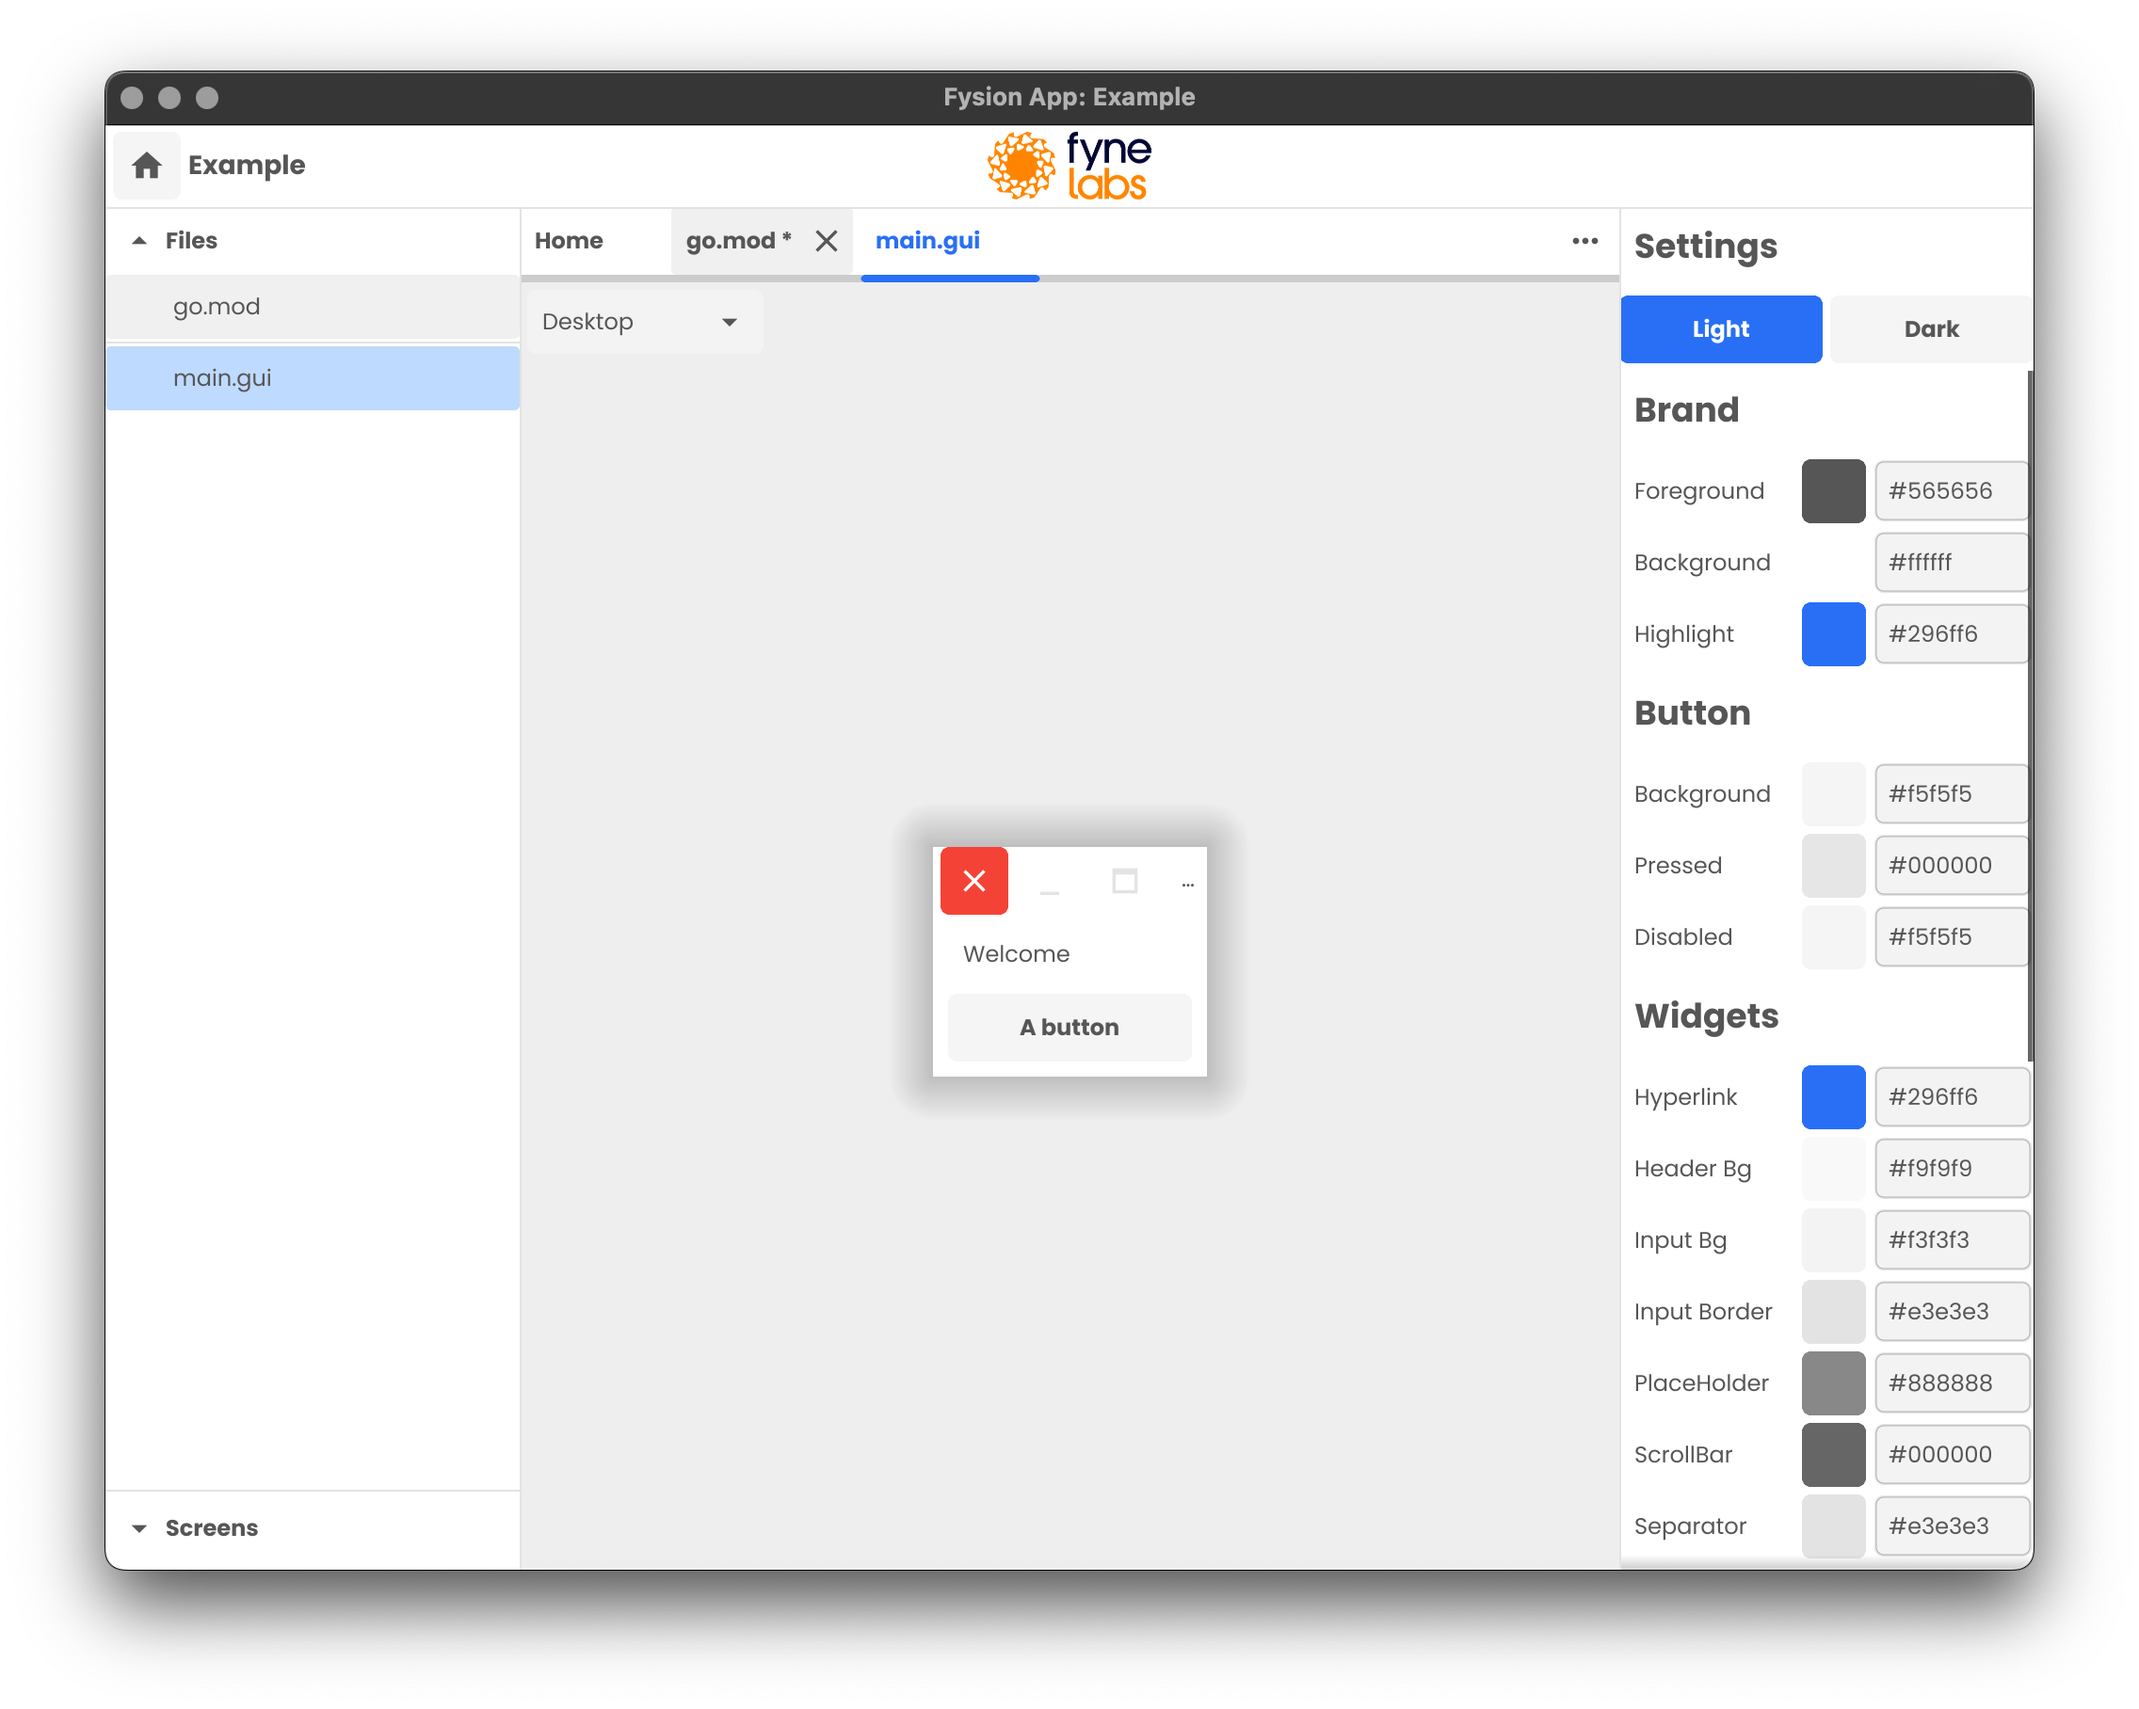
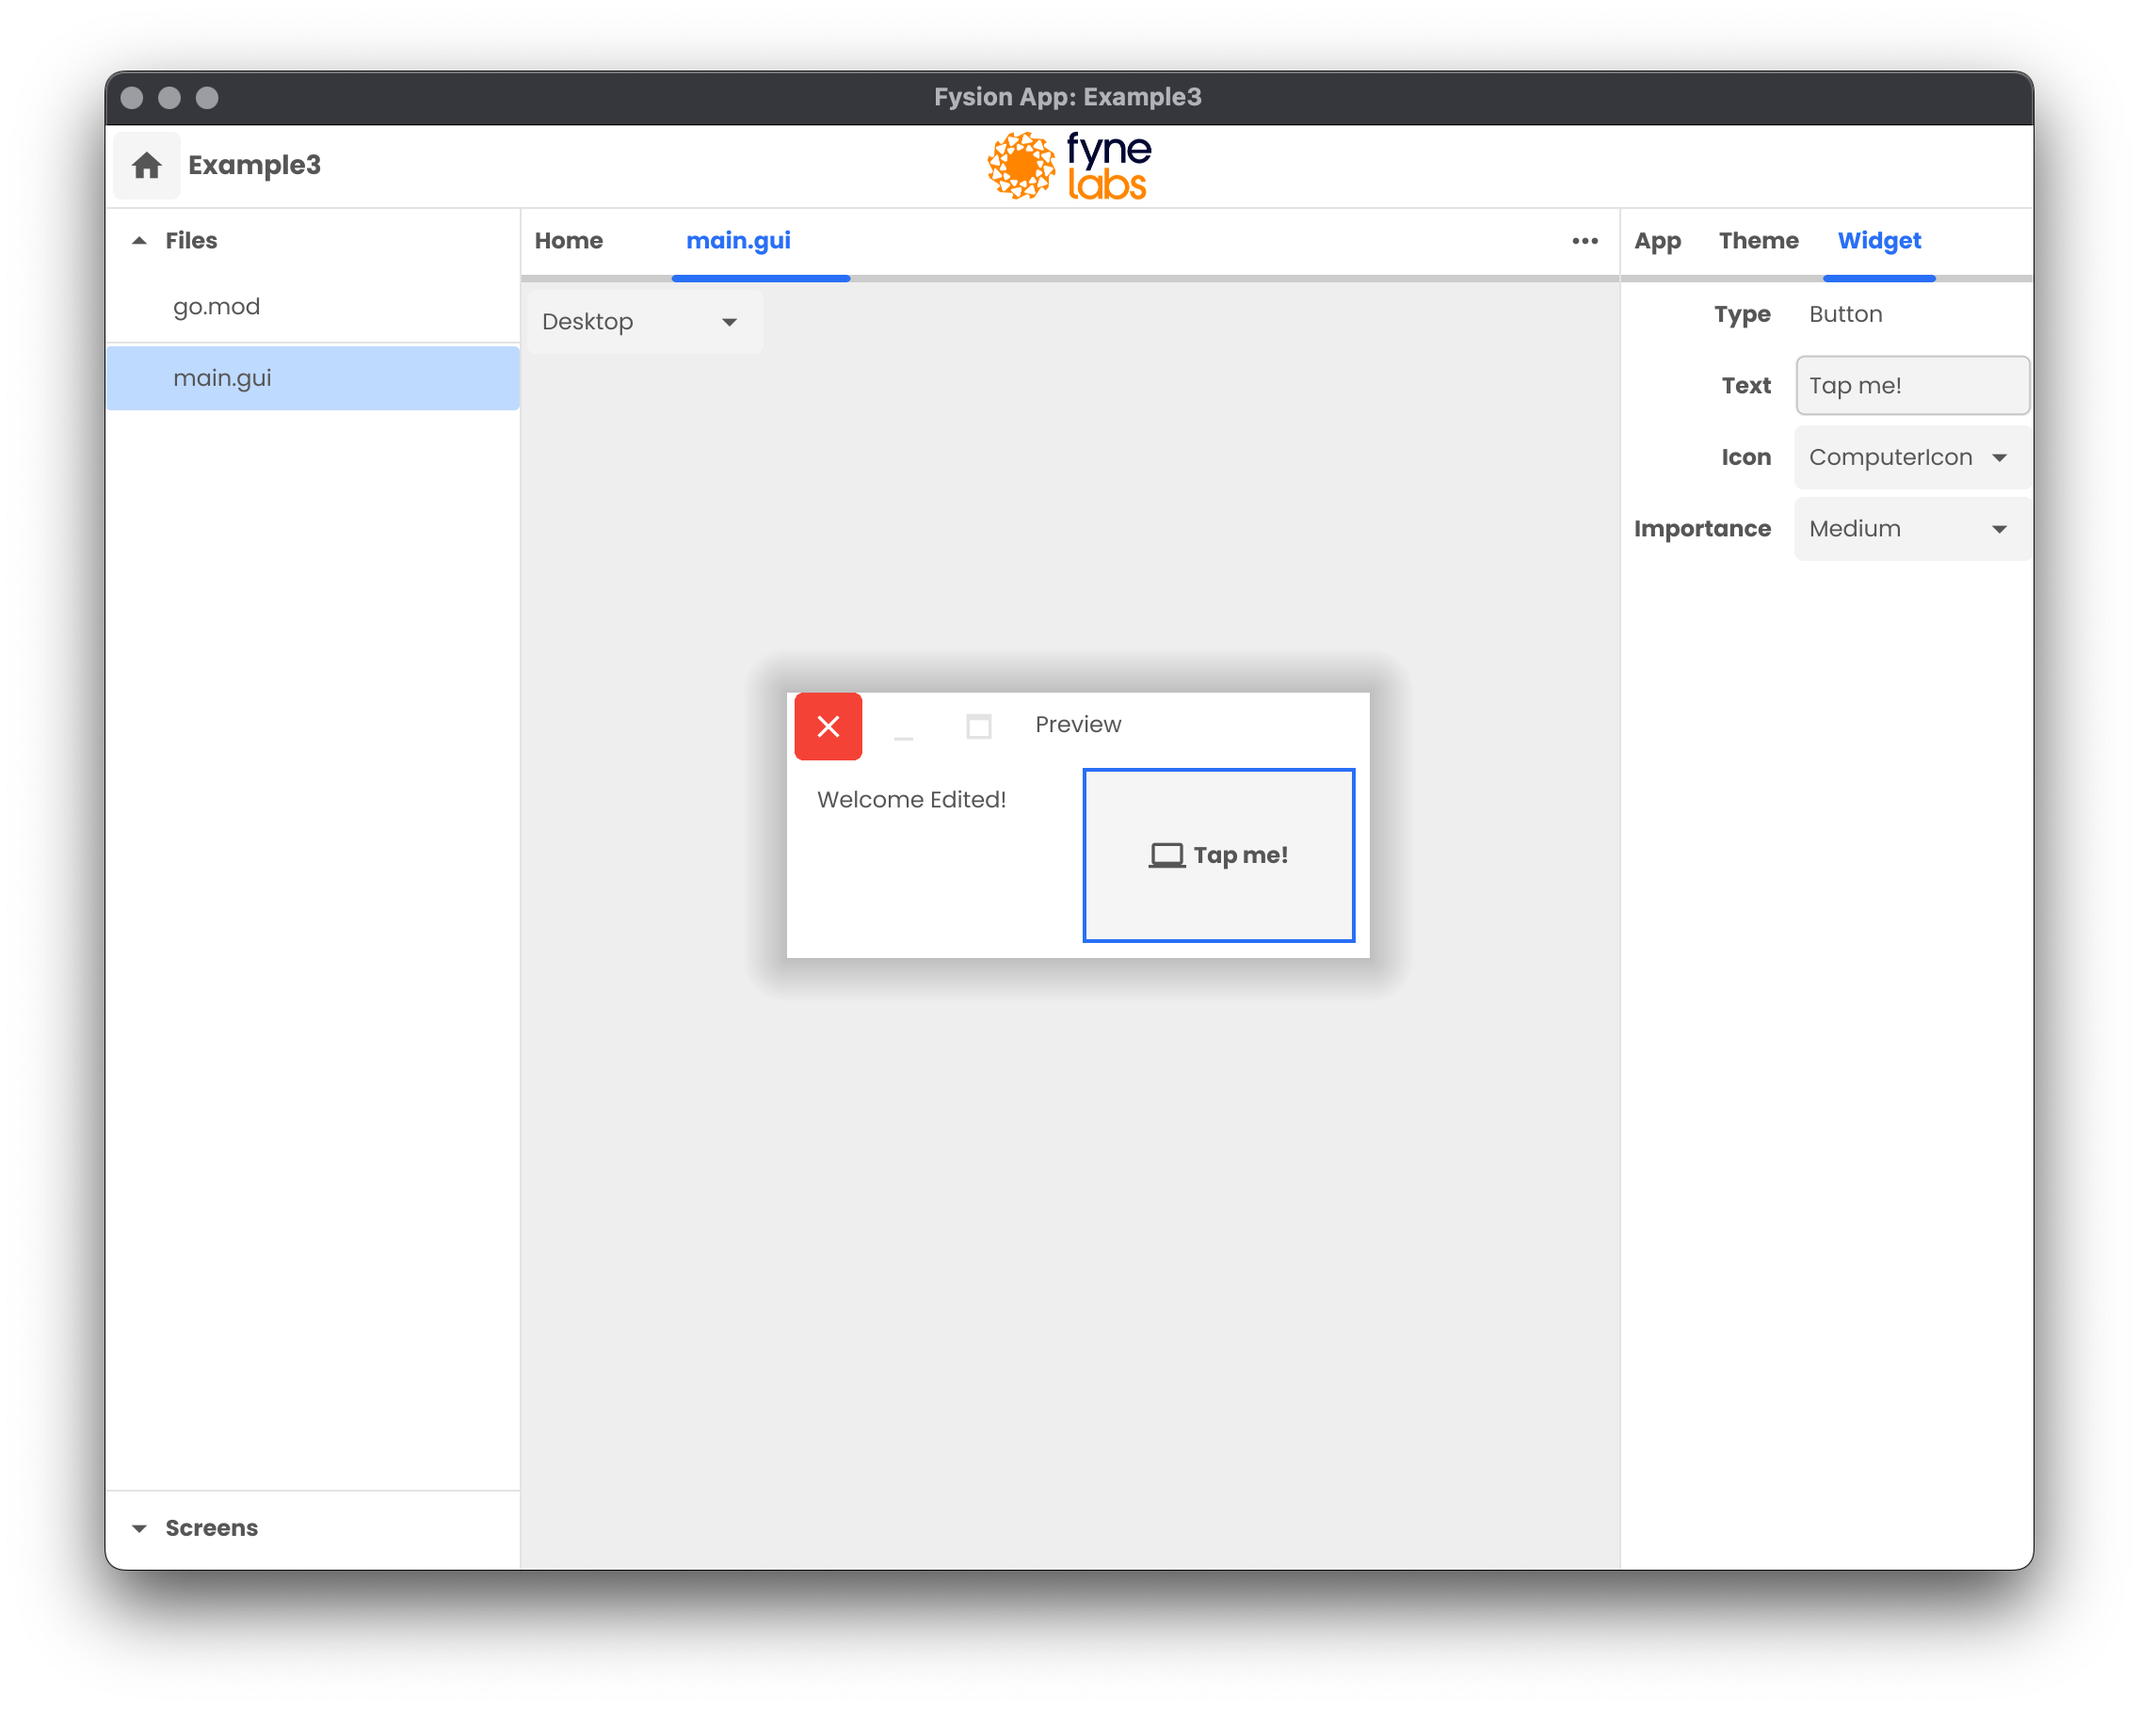
Update README and screenshot for where we got to in series 1

diff --git a/README.md b/README.md
@@ -14,6 +14,9 @@ You will need to have the development tools required for Fyne - check https://de
 
 To check out the code from an old episode just `git checkout <tag>` where the tag is one of:
 
+### Series 1:
+
+* **ep10**: Editing Widgets and Layouts
 * **ep9**: Project Metadata and Recents Storage
 * **ep8**: Editor State and File Save
 * **ep7**: Theme Editor and Preview
